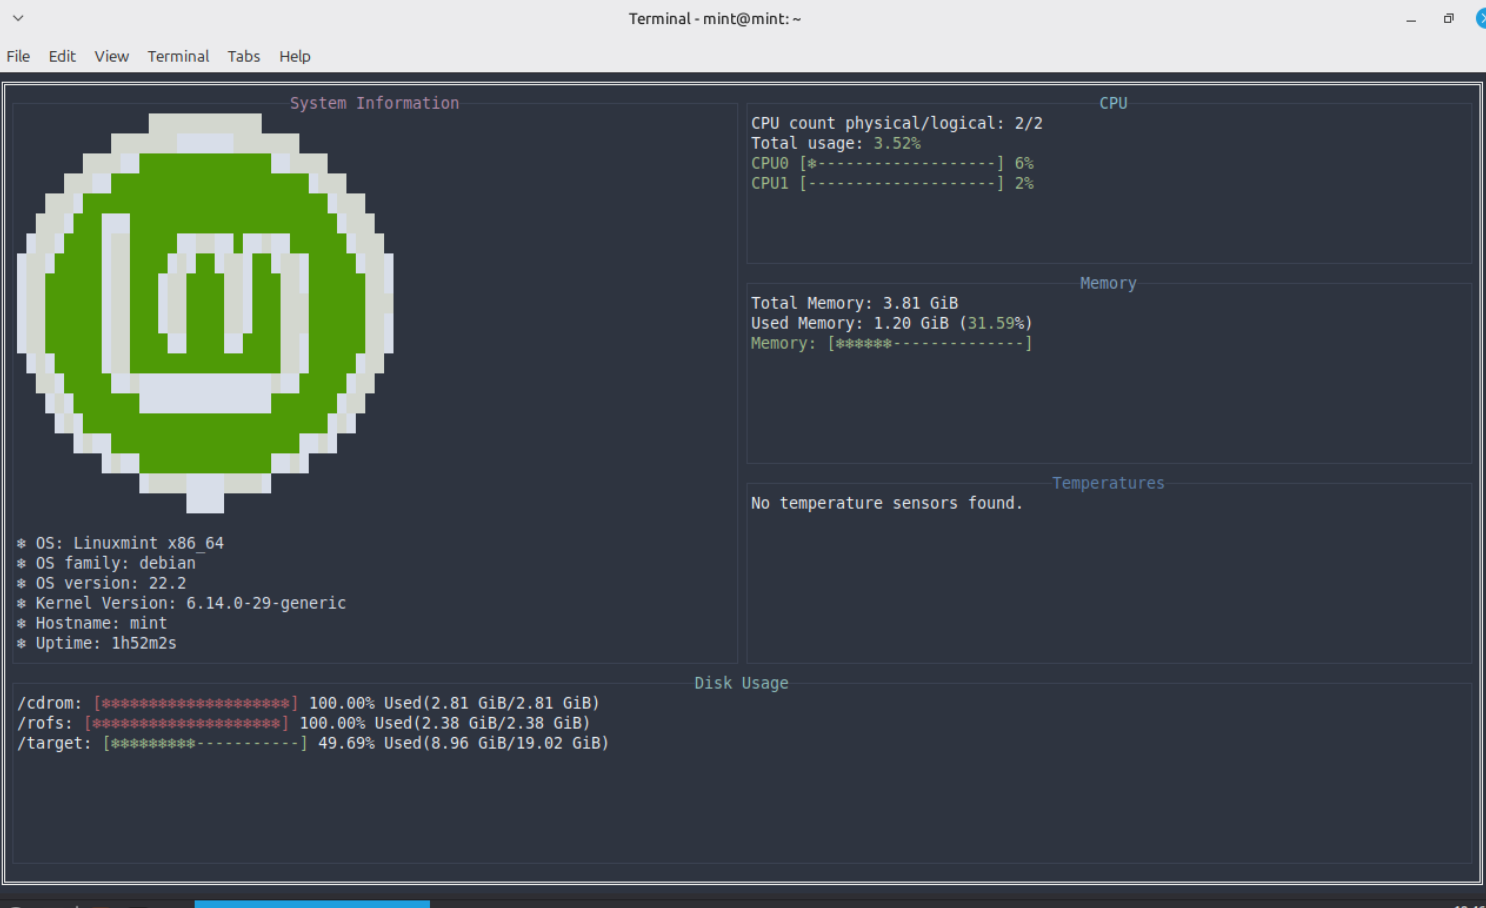
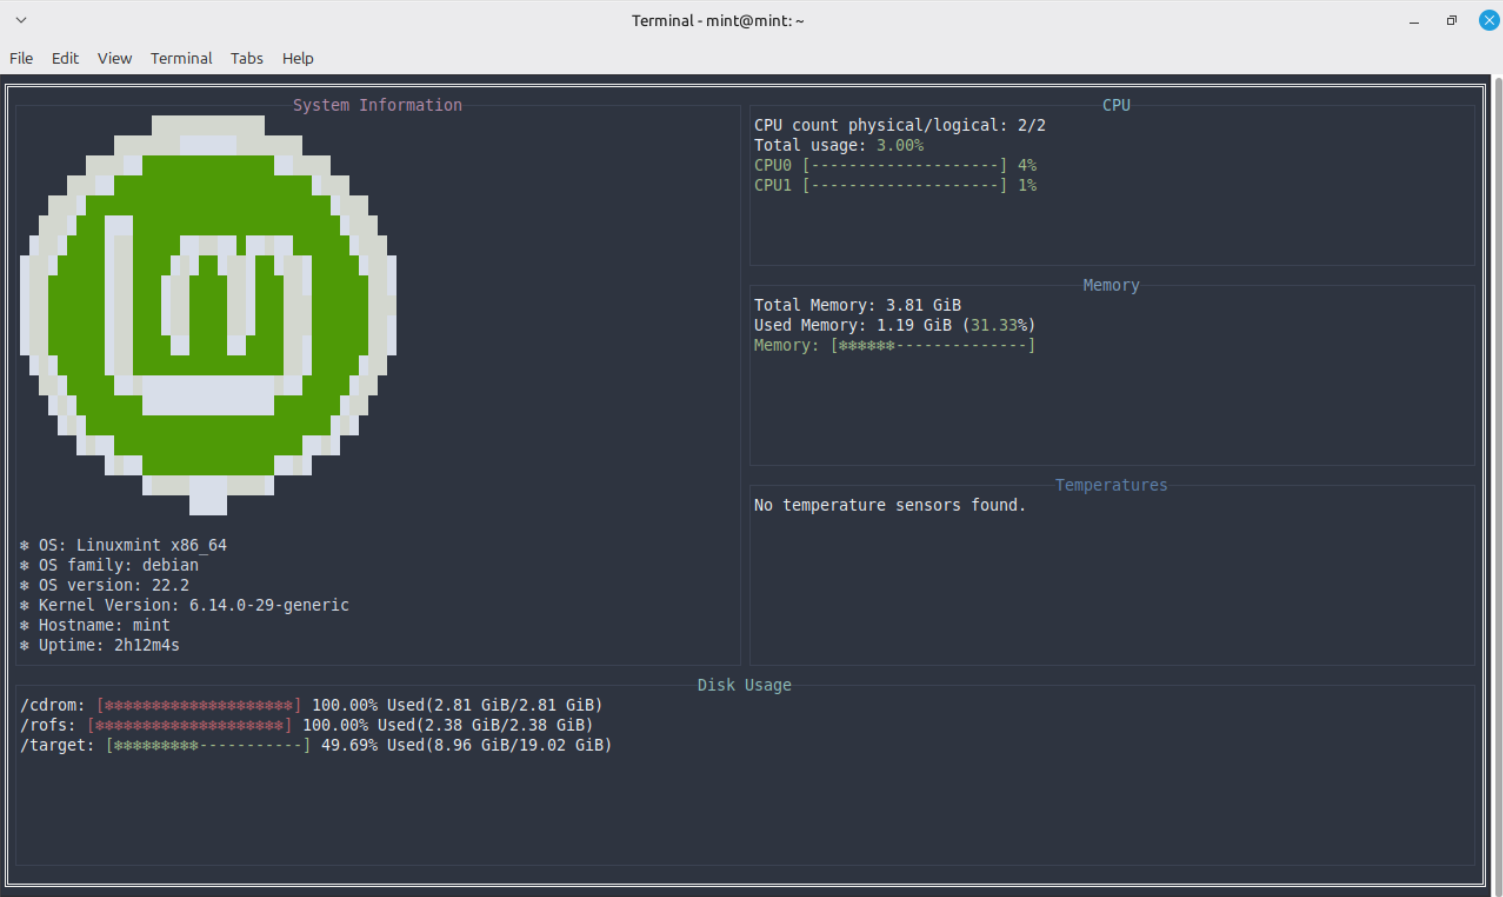
added help page

diff --git a/main.go b/main.go
@@ -212,7 +212,7 @@ func loadOrCreateUsersPreferences() {
 	toml.DecodeFile(fullPath, &userPrefs)
 
 }
-func applyTheme(theme *Theme, cpuPanel, memPanel, infoPanel, tempPanel, diskPanel *tview.TextView, grid *tview.Grid, themeSelector *tview.DropDown, settings *tview.Form) {
+func applyTheme(theme *Theme, cpuPanel, memPanel, infoPanel, tempPanel, diskPanel, keyBindMenu *tview.TextView, grid *tview.Grid, themeSelector *tview.DropDown, settings *tview.Form) {
 	cpuPanel.SetBorderColor(theme.CPUPanel.BorderColor)
 	cpuPanel.SetTitleColor(theme.CPUPanel.TitleColor)
 	cpuPanel.SetTextColor(theme.CPUPanel.TextColor)
@@ -237,6 +237,10 @@ func applyTheme(theme *Theme, cpuPanel, memPanel, infoPanel, tempPanel, diskPane
 	diskPanel.SetTitleColor(theme.DiskPanel.TitleColor)
 	diskPanel.SetTextColor(theme.DiskPanel.TextColor)
 	diskPanel.SetBackgroundColor(theme.DiskPanel.BackGroundColor)
+
+	keyBindMenu.SetBorderColor(theme.InfoPanel.BorderColor)
+	keyBindMenu.SetTextColor(theme.InfoPanel.TextColor)
+	keyBindMenu.SetBackgroundColor(theme.Backgroundcolor)
 	tview.Styles.PrimitiveBackgroundColor = theme.Backgroundcolor
 	grid.SetBackgroundColor(theme.Backgroundcolor)
 
@@ -291,7 +295,8 @@ func updateInfos(app *tview.Application, cpuPanel, memPanel, infoPanel, diskPane
 	OSVersion := staticInfo.OSVersion
 	KernelVersion := staticInfo.KernelVersion
 	cpuModelName := staticInfo.CPUModel
-
+	currentTime := time.Now()
+	formatedTime := currentTime.Format("2006-01-02 15:04:05")
 	OSArch := staticInfo.KernelArch
 	hostInfo, _ := host.Info()
 	hostname := staticInfo.Hostname
@@ -300,7 +305,7 @@ func updateInfos(app *tview.Application, cpuPanel, memPanel, infoPanel, diskPane
 	uptimeInt = int(uptime)
 	uptimeString := time.Duration(uptimeInt) * time.Second
 	logo := staticInfo.Logo
-	OSInfoText := fmt.Sprintf("%s❄ OS: %s %s\n❄ OS family: %s\n❄ OS version: %s\n❄ Kernel Version: %s\n❄ Hostname: %s\n❄ Uptime: %s\n❄ CPU Model: %s\n", logo, OSPlatform, OSArch, OSFamily, OSVersion, KernelVersion, hostname, uptimeString, cpuModelName)
+	OSInfoText := fmt.Sprintf("%s❄ OS: %s %s\n❄ OS family: %s\n❄ OS version: %s\n❄ Kernel Version: %s\n❄ Hostname: %s\n❄ Uptime: %s\n❄ Current date: %s\nCPU Model: %s", logo, OSPlatform, OSArch, OSFamily, OSVersion, KernelVersion, hostname, uptimeString, formatedTime, cpuModelName)
 
 	//Memory
 	v, _ := mem.VirtualMemory()
@@ -322,9 +327,7 @@ func updateInfos(app *tview.Application, cpuPanel, memPanel, infoPanel, diskPane
 	}
 	memUsageBar, memColCode := createBar(theme, usedMemPercent, userPrefs.BarFilledChar, userPrefs.BarEmptyChar)
 	memBarString := fmt.Sprintf("Memory: %s", memUsageBar)
-	currentTime := time.Now()
-	formatedTime := currentTime.Format("2006-01-02 15:04:05")
-	memText := fmt.Sprintf("Total Memory: %s\nUsed Memory: %s (%s%%)\n%s%s[-]\n%s", totalMemString, usedMemString, usedMemPercentString, memColCode, memBarString, formatedTime)
+	memText := fmt.Sprintf("Total Memory: %s\nUsed Memory: %s (%s%%)\n%s%s[-]", totalMemString, usedMemString, usedMemPercentString, memColCode, memBarString)
 
 	//CPU
 
@@ -457,6 +460,7 @@ func main() {
 	cpuPanel.SetBorder(true)
 	cpuPanel.SetTitle("CPU")
 	cpuPanel.SetDynamicColors(true)
+	cpuPanel.ScrollToBeginning()
 	//FastFetch-style section
 
 	infoPanel := tview.NewTextView()
@@ -484,7 +488,7 @@ func main() {
 
 	// General Layout
 	rightColumnLayout := tview.NewFlex().SetDirection(tview.FlexRow)
-	rightColumnLayout.AddItem(cpuPanel, 0, 1, false)
+	rightColumnLayout.AddItem(cpuPanel, 0, 1, true)
 	rightColumnLayout.AddItem(memPanel, 0, 1, false)
 	rightColumnLayout.AddItem(tempPanel, 0, 1, false)
 	app := tview.NewApplication()
@@ -497,18 +501,22 @@ func main() {
 	mainGrid.AddItem(rightColumnLayout, 0, 1, 2, 1, 0, 0, false)
 	settings := tview.NewForm()
 	settings.SetBorder(true)
-	settings.SetTitle("Settings - ESC to go back")
+	settings.SetTitle("Settings - ESC or 's' to go back")
 	themeSelector := tview.NewDropDown()
 	themeSelector.SetLabel("Select a theme (hit Enter): ")
 	themeSelector.SetOptions(themesList, nil)
 	themeSelector.SetCurrentOption(0)
 	settings.AddFormItem(themeSelector)
 
-	applyTheme(currentTheme, cpuPanel, memPanel, infoPanel, tempPanel, diskPanel, mainGrid, themeSelector, settings)
+	keyBindMenu := tview.NewTextView()
+	keyBindMenu.SetBorder(true)
+	keyBindMenu.SetTitle("Keybinds - ESC or 'h' to go back")
+	keyBindMenu.SetText("'q'/CTRL + C - quit the application\n's' - open the settings page\nTAB/Arrow keys - navigate in the settings page\nESC - quit the settings/help page\n'h' - open the help page (this page)\n\n\nMade by @Hash-AK (https://github.com/hash-ak)")
+	applyTheme(currentTheme, cpuPanel, memPanel, infoPanel, tempPanel, diskPanel, keyBindMenu, mainGrid, themeSelector, settings)
 
 	pages := tview.NewPages()
 	pages.AddPage("settings", settings, true, false)
-
+	pages.AddPage("help", keyBindMenu, true, false)
 	pages.AddPage("dashboard", mainGrid, true, true)
 	app.SetRoot(pages, true)
 	app.SetInputCapture(func(event *tcell.EventKey) *tcell.EventKey {
@@ -520,13 +528,20 @@ func main() {
 		if event.Rune() == 's' {
 			if currentPage == "dashboard" {
 				pages.SwitchToPage("settings")
-			} else {
+			} else if currentPage == "settings" {
 				pages.SwitchToPage("dashboard")
 			}
 			return nil
 		}
+		if event.Rune() == 'h' {
+			if currentPage == "dashboard" {
+				pages.SwitchToPage("help")
+			} else if currentPage == "help" {
+				pages.SwitchToPage("dashboard")
+			}
+		}
 		if event.Key() == tcell.KeyEscape {
-			if currentPage == "settings" {
+			if currentPage == "settings" || currentPage == "help" {
 				pages.SwitchToPage("dashboard")
 			}
 		}
@@ -537,14 +552,14 @@ func main() {
 		switch selection {
 		case "Default":
 			currentTheme = &defaultTheme
-			applyTheme(currentTheme, cpuPanel, memPanel, infoPanel, tempPanel, diskPanel, mainGrid, themeSelector, settings)
+			applyTheme(currentTheme, cpuPanel, memPanel, infoPanel, tempPanel, diskPanel, keyBindMenu, mainGrid, themeSelector, settings)
 
 		case "Nord":
 			currentTheme = &nordTheme
-			applyTheme(currentTheme, cpuPanel, memPanel, infoPanel, tempPanel, diskPanel, mainGrid, themeSelector, settings)
+			applyTheme(currentTheme, cpuPanel, memPanel, infoPanel, tempPanel, diskPanel, keyBindMenu, mainGrid, themeSelector, settings)
 		case "Snow Day":
 			currentTheme = &snowTheme
-			applyTheme(currentTheme, cpuPanel, memPanel, infoPanel, tempPanel, diskPanel, mainGrid, themeSelector, settings)
+			applyTheme(currentTheme, cpuPanel, memPanel, infoPanel, tempPanel, diskPanel, keyBindMenu, mainGrid, themeSelector, settings)
 		}
 		userPrefs.ThemeName = selection
 		saveToFile(userPrefs)
